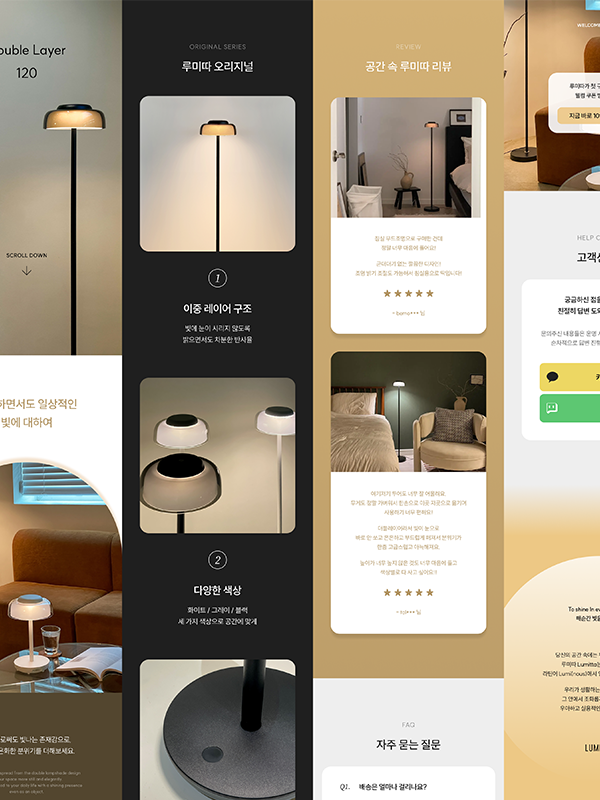
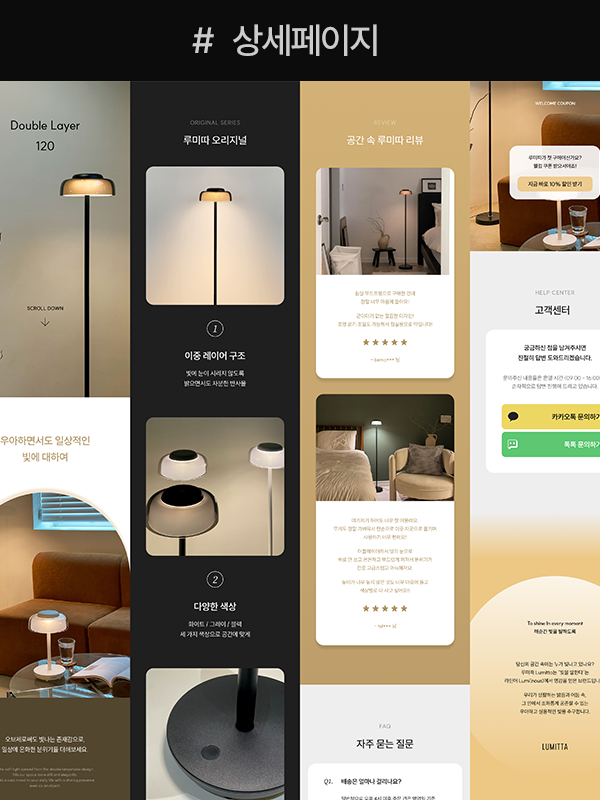
deleted:    "img/\352\267\270\353\246\27401.png" 	deleted:    "img/\352\267\270\353\246\27402.png" 	modified:   "img/\354\203\201\354\204\270\355\216\230\354\235\264\354\247\20001.png" 	new file:   "img/\354\271\264\353\223\234\353\211\264\354\212\24401.png" 	new file:   "img/\354\271\264\353\223\23

diff --git a/index.html b/index.html
@@ -241,12 +241,12 @@
                     </li>
                     <li class="swiper-slide">
                         <a href="#">
-                            <img src="img/그림01.png" alt="디자인2">
+                            <img src="img/카드뉴스01.png" alt="디자인2">
                         </a>
                     </li>
                     <li class="swiper-slide">
                         <a href="#">
-                            <img src="img/그림02.png" alt="디자인3">
+                            <img src="img/카드뉴스02.png" alt="디자인3">
                         </a>
                     </li>
                     <li class="swiper-slide">
@@ -256,12 +256,12 @@
                     </li>
                     <li class="swiper-slide">
                         <a href="#">
-                            <img src="img/" alt="디자인5">
+                            <img src="img/캐릭터디자인01.png" alt="디자인5">
                         </a>
                     </li>
                     <li class="swiper-slide">
                         <a href="#">
-                            <img src="img/" alt="디자인6">
+                            <img src="img/캐릭터디자인02.png" alt="디자인6">
                         </a>
                     </li>
                 </ul>